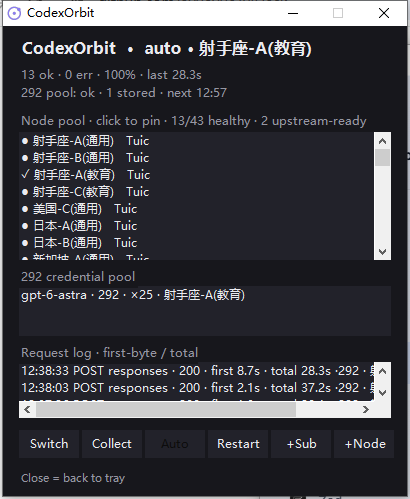
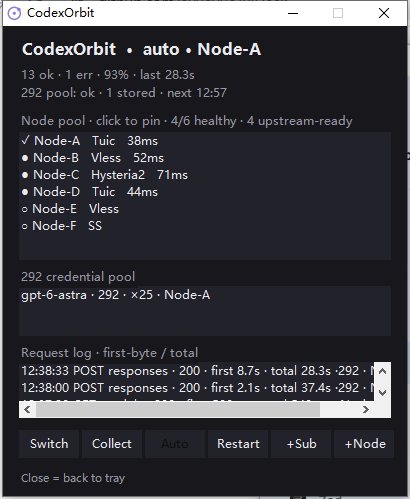
Doc screenshots render anonymized demo data - real node names never leak

diff --git a/src/CodexOrbitApp.cs b/src/CodexOrbitApp.cs
@@ -815,6 +815,40 @@ class StatusSnapshot
         catch { return new StatusSnapshot { Alive = true }; }
     }
 
+    // Demo snapshot + node list for doc screenshots - real node/subscription
+    // names must never leak into published images.
+    public static StatusSnapshot Demo()
+    {
+        var o = new StatusSnapshot();
+        o.Alive = true; o.Node = "AUTO";
+        o.Ok = 13; o.Errors = 1; o.Alive2 = 6; o.Reachable = 4;
+        o.LastCollectOk = true; o.NextCollect = "2026-01-01T12:57:00+08:00";
+        o.LastMillis = 28300;
+        o.LatencyHistory = new long[] { 39669, 13126, 44739, 872, 28300, 37400 };
+        o.States.Add(D("model", "gpt-6-astra", "length", 292, "node", "Node-A", "hits", 25));
+        o.Recent.Add(D("time", "2026-01-01T12:38:33+08:00", "method", "POST", "path", "/backend-api/codex/responses", "status", 200, "node", "Node-A", "injected", true, "attempts", 1, "ttft", 8700, "millis", 28300));
+        o.Recent.Add(D("time", "2026-01-01T12:38:00+08:00", "method", "POST", "path", "/backend-api/codex/responses", "status", 200, "node", "Node-A", "injected", true, "attempts", 1, "ttft", 2100, "millis", 37400));
+        o.Recent.Add(D("time", "2026-01-01T12:37:20+08:00", "method", "GET", "path", "/backend-api/codex/models", "status", 200, "node", "Node-A", "injected", false, "attempts", 1, "ttft", 500, "millis", 540));
+        o.Recent.Add(D("time", "2026-01-01T12:35:10+08:00", "method", "POST", "path", "/backend-api/codex/responses", "status", 502, "node", "Node-B", "injected", false, "attempts", 2, "ttft", 0, "millis", 4300));
+        return o;
+    }
+
+    public const string DemoNodesJson =
+        "{\"current\":\"Node-A\",\"nodes\":[" +
+        "{\"name\":\"Node-A\",\"state\":\"ok\",\"type\":\"Tuic\",\"delay\":38}," +
+        "{\"name\":\"Node-B\",\"state\":\"ok\",\"type\":\"Vless\",\"delay\":52}," +
+        "{\"name\":\"Node-C\",\"state\":\"ok\",\"type\":\"Hysteria2\",\"delay\":71}," +
+        "{\"name\":\"Node-D\",\"state\":\"ok\",\"type\":\"Tuic\",\"delay\":44}," +
+        "{\"name\":\"Node-E\",\"state\":\"reachable\",\"type\":\"Vless\",\"delay\":0}," +
+        "{\"name\":\"Node-F\",\"state\":\"unknown\",\"type\":\"SS\",\"delay\":0}]}";
+
+    static System.Collections.Generic.Dictionary<string, object> D(params object[] kv)
+    {
+        var d = new System.Collections.Generic.Dictionary<string, object>();
+        for (int i = 0; i + 1 < kv.Length; i += 2) d[Convert.ToString(kv[i])] = kv[i + 1];
+        return d;
+    }
+
     static string S(System.Collections.Generic.Dictionary<string, object> j, string k)
     {
         object v; return j.TryGetValue(k, out v) && v != null ? Convert.ToString(v) : "";
@@ -1127,6 +1161,7 @@ class ConsoleForm : Form
     ListBox nodes, creds, reqs;
     Button autoBtn, switchBtn;
     System.Windows.Forms.Timer refreshTimer;
+    internal bool NoFetch; // shot mode: demo data only, never hit the live API
     System.Collections.ArrayList nodeRaw;
 
     public ConsoleForm()
@@ -1185,7 +1220,7 @@ class ConsoleForm : Form
         Controls.AddRange(new Control[] { head, stats, state, nl2, nodes, cl, creds, rl, reqs, hint });
 
         refreshTimer = new System.Windows.Forms.Timer { Interval = 4000 };
-        refreshTimer.Tick += delegate { if (Visible) Reload(); };
+        refreshTimer.Tick += delegate { if (Visible && !NoFetch) Reload(); };
         refreshTimer.Start();
     }
 
@@ -1195,7 +1230,7 @@ class ConsoleForm : Form
         base.OnFormClosed(e);
     }
 
-    protected override void OnShown(EventArgs e) { base.OnShown(e); Reload(); }
+    protected override void OnShown(EventArgs e) { base.OnShown(e); if (!NoFetch) Reload(); }
 
     void RefreshSoon() { new Thread(new ThreadStart(delegate { Thread.Sleep(1500); Reload(); })) { IsBackground = true }.Start(); }
 
@@ -1227,7 +1262,7 @@ class ConsoleForm : Form
         });
     }
 
-    void ApplyData(StatusSnapshot s, string nodesJson)
+    internal void ApplyData(StatusSnapshot s, string nodesJson)
     {
         bool warn = s != null && s.FailStreak >= 3;
         if (autoBtn != null) { autoBtn.Enabled = s == null || s.Node != "AUTO"; autoBtn.BackColor = warn && s.Node != "AUTO" ? Accent : BgSoft; }
@@ -1342,7 +1377,7 @@ static class Shot
         card.NoAutoHide = true;
         card.StartPosition = FormStartPosition.Manual;
         card.Location = new Point(60, 60);
-        card.RefreshData(StatusSnapshot.Fetch());
+        card.RefreshData(StatusSnapshot.Demo());
         card.Show();
         Application.DoEvents();
         Thread.Sleep(900); // let GDI+ finish
@@ -1367,12 +1402,13 @@ static class Shot
     public static void SaveConsole(string path)
     {
         var f = new ConsoleForm();
+        f.NoFetch = true;
         f.StartPosition = FormStartPosition.Manual;
         f.Location = new Point(60, 60);
         f.Show();
         Application.DoEvents();
-        f.Reload();
-        Thread.Sleep(1500); // data fetch + GDI settle
+        f.ApplyData(StatusSnapshot.Demo(), StatusSnapshot.DemoNodesJson);
+        Thread.Sleep(900); // let GDI+ settle
         Application.DoEvents();
         var bmp = new Bitmap(f.Width, f.Height);
         using (var g = Graphics.FromImage(bmp))
